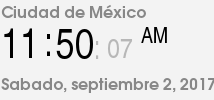
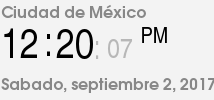
update images 02-09-2017 12:20

Changed region(s): [[0.2523, 0.27, 0.3645, 0.6], [0.0841, 0.27, 0.1963, 0.6], [0.6449, 0.27, 0.729, 0.45]]

diff --git a/README.md b/README.md
@@ -14520,3 +14520,6 @@
 |02-09-2017 11:20
 |02-09-2017 11:40
 |02-09-2017 11:50
+|02-09-2017 12:03
+|02-09-2017 12:11
+|02-09-2017 12:20
